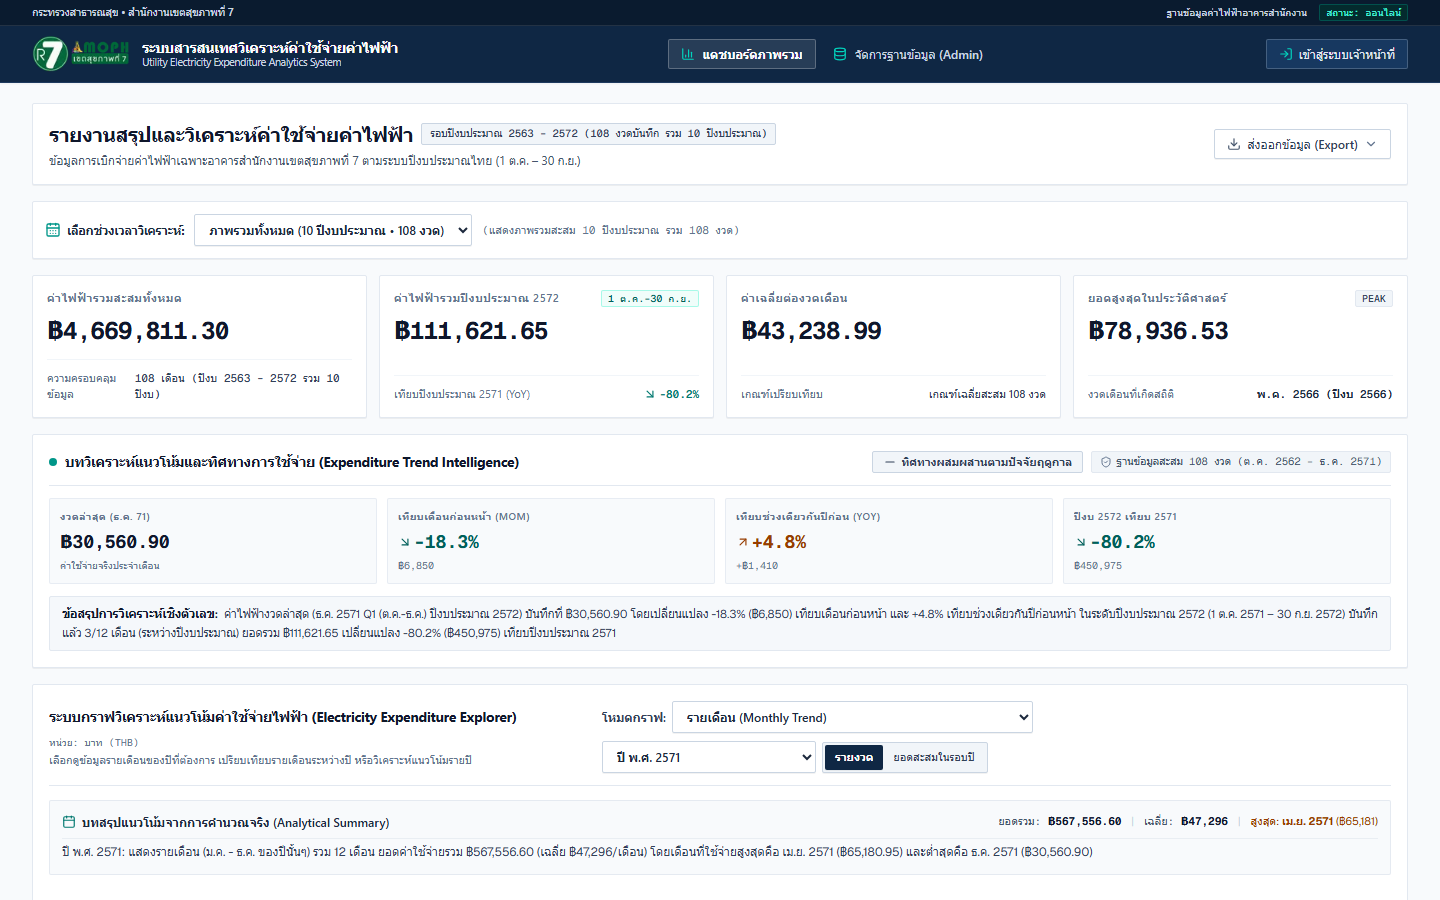
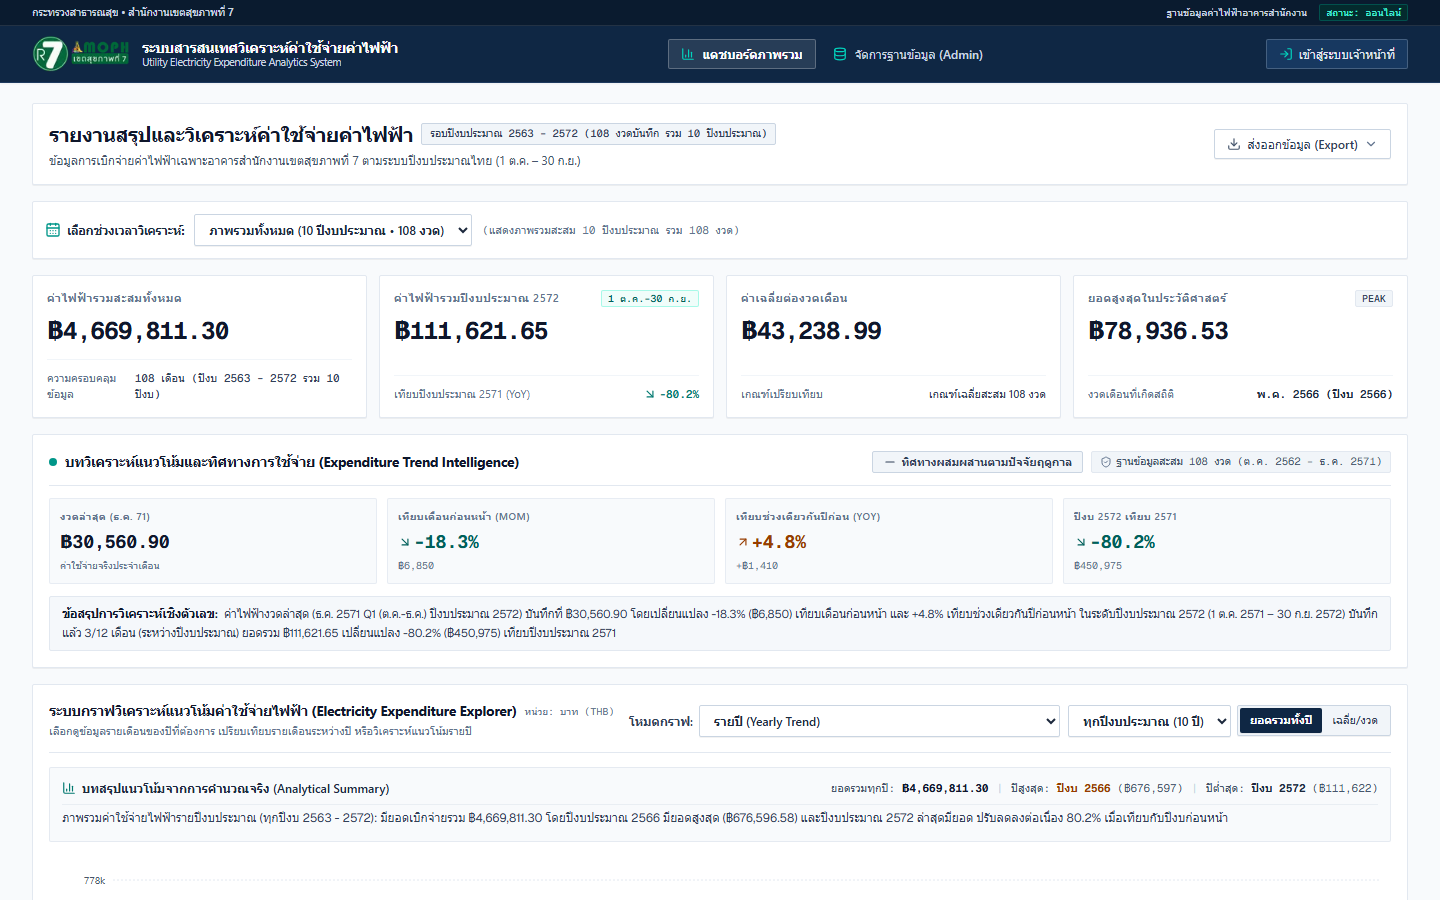
feat(explorer): set yearly view as default and reorder dropdown to yearly, monthly, yoy

Changed region(s): [[0.0312, 0.7778, 0.9688, 0.9644], [0.75, 0.7778, 0.9688, 0.84]]

diff --git a/components/dashboard/explorer/explorer-toolbar.tsx b/components/dashboard/explorer/explorer-toolbar.tsx
@@ -70,9 +70,9 @@ export function ExplorerToolbar({
             onChange={(e) => setViewMode(e.target.value as ChartViewMode)}
             className="text-xs font-semibold border border-slate-300 hover:border-slate-400 bg-white text-slate-800 rounded-xs px-2.5 py-1.5 focus:outline-none focus:ring-2 focus:ring-[#0f2744] shadow-2xs cursor-pointer transition-colors"
           >
+            <option value="yearly">รายปี (Yearly Trend)</option>
             <option value="monthly">รายเดือน (Monthly Trend)</option>
             <option value="yoy">เปรียบเทียบรายเดือนระหว่างปี (Year-over-Year Comparison)</option>
-            <option value="yearly">รายปี (Yearly Trend)</option>
           </select>
         </div>
 

diff --git a/components/dashboard/expenditure-trend-explorer.tsx b/components/dashboard/expenditure-trend-explorer.tsx
@@ -31,8 +31,8 @@ export function ExpenditureTrendExplorer({
   onSelectYear,
   onResetFilters,
 }: ExpenditureTrendExplorerProps) {
-  // 1. Chart View Mode
-  const [viewMode, setViewMode] = useState<ChartViewMode>('monthly');
+  // 1. Chart View Mode (Default: Yearly Trend as requested)
+  const [viewMode, setViewMode] = useState<ChartViewMode>('yearly');
 
   // Distinct Calendar Years (2569, 2568, ... 2562)
   const availableYears = useMemo(() => {
